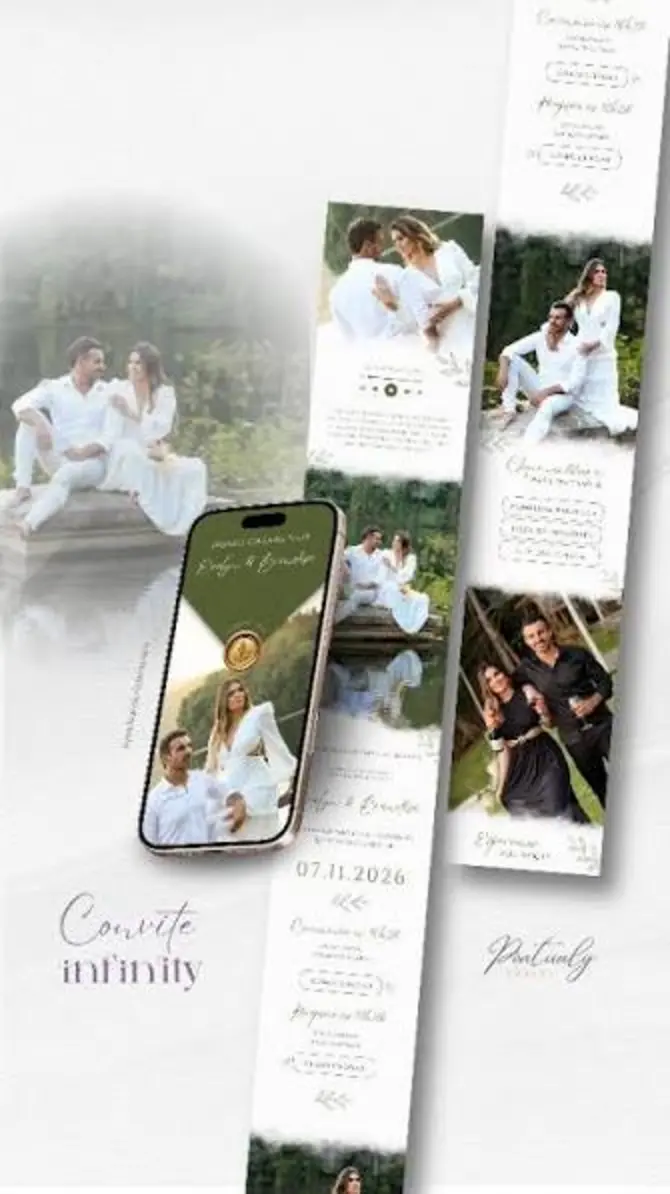
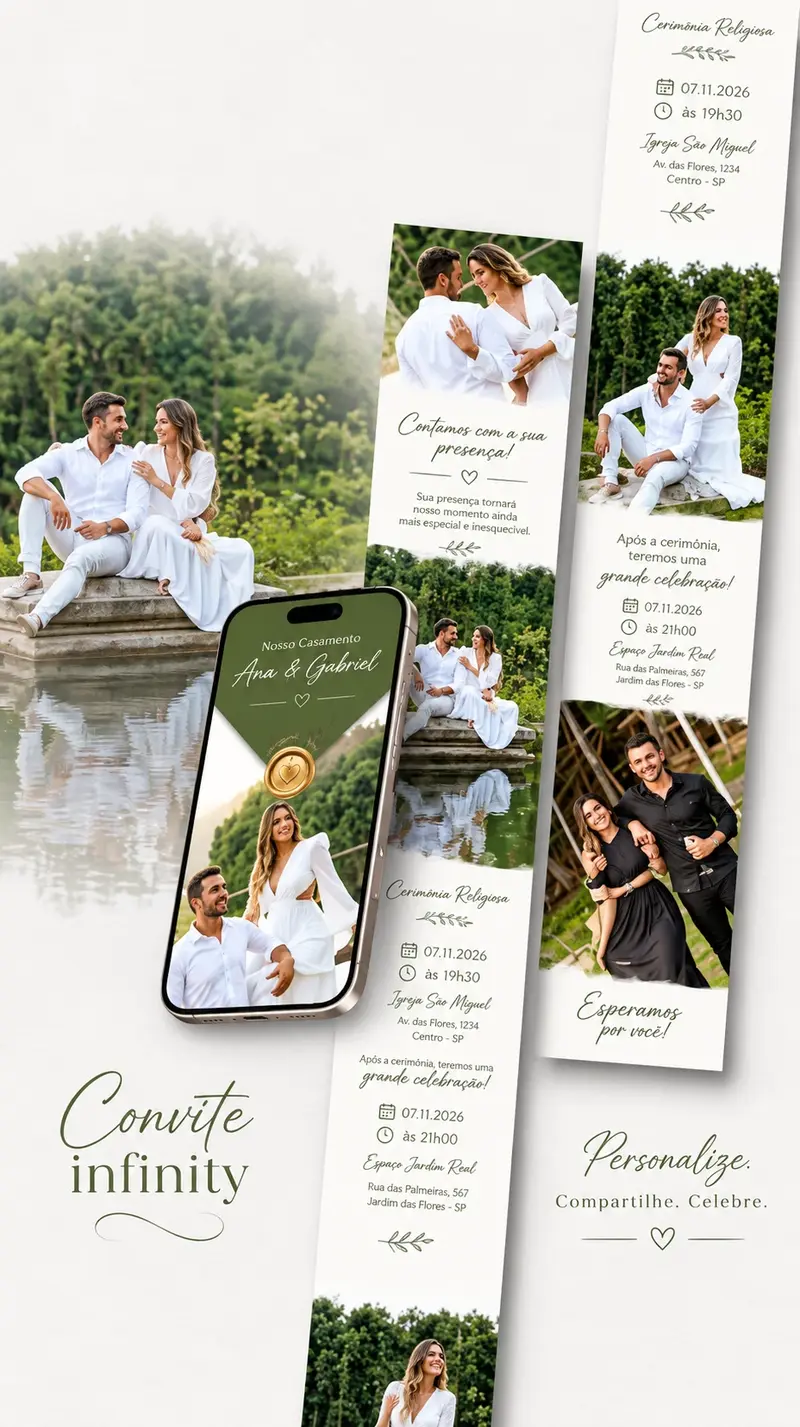
App: imagem do convite virtual em alta resolução
Claude-Session: https://claude.ai/code/session_016oanMoqSLwB8wD9WTYZ31H

diff --git a/app/mods4.js b/app/mods4.js
@@ -22,7 +22,7 @@
   var CADEADO = '<svg viewBox="0 0 24 24" fill="none" stroke="currentColor" stroke-width="2" stroke-linecap="round" stroke-linejoin="round" aria-hidden="true"><rect x="4" y="11" width="16" height="10" rx="2"/><path d="M8 11V7a4 4 0 0 1 8 0v4"/></svg>';
   var EXTRAS = {
     convite: {
-      titulo: 'Convite virtual e site do casamento', img: '/img/bonus-convite.webp', pos: '50% 57%', alt: 'Convite digital do casamento aberto no celular',
+      titulo: 'Convite virtual e site do casamento', img: '/img/bonus-convite.webp?v=2', pos: '40% 52%', alt: 'Convite digital do casamento aberto no celular',
       curto: 'O convite de vocês em um link, com cara de site do casamento e confirmação de presença.',
       resumo: 'Um convite digital para mandar pelo WhatsApp. Os convidados abrem o envelope, veem tudo sobre o casamento e confirmam a presença pelo próprio link.',
       itens: ['10 temas com envelope e lacre', 'Fotos do casal, data, local, traje e música', 'Confirmação de presença dos convidados', 'Link pronto para enviar no WhatsApp'],

diff --git a/app/index.html b/app/index.html
@@ -24,7 +24,7 @@
 <script src="/app/mods1.js?v=69"></script>
 <script src="/app/mods2.js?v=28"></script>
 <script src="/app/mods3.js?v=69"></script>
-<script src="/app/mods4.js?v=70"></script>
+<script src="/app/mods4.js?v=71"></script>
 <script src="/app/avisos.js?v=54"></script>
 <script src="/app/tour.js?v=69"></script>
 <script src="/app/boasvindas.js?v=52"></script>
